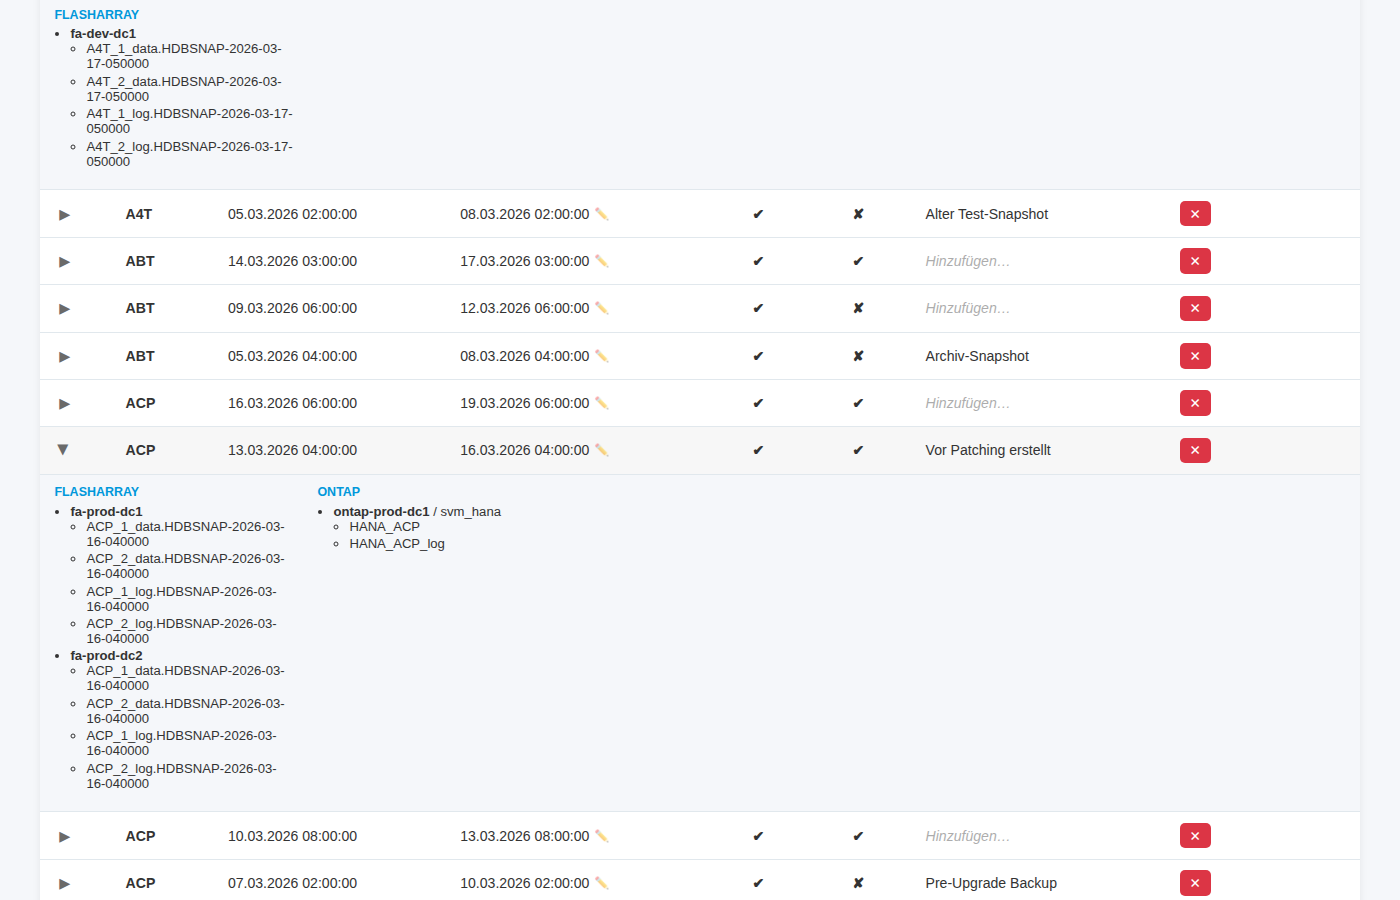
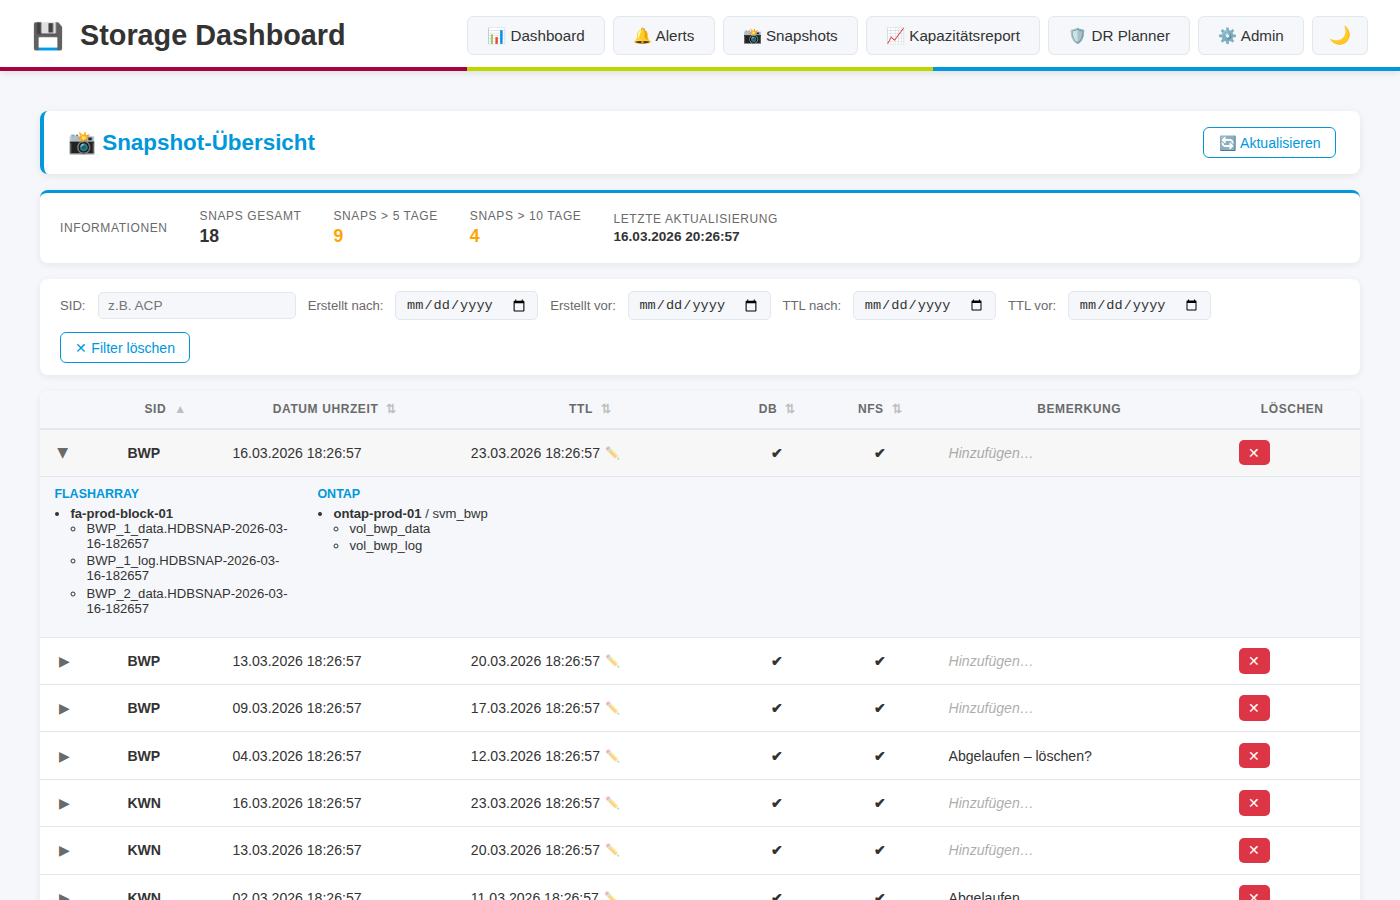
feat: add snapshot demo data seeding with neutral invented SIDs and regenerate screenshots

diff --git a/examples/seed_demo_data.py b/examples/seed_demo_data.py
@@ -14,6 +14,7 @@ Set DEMO_RESET=1 to wipe all existing systems/snapshots first:
 """
 import os
 import sys
+import json
 import random
 from datetime import date, datetime, timedelta
 
@@ -23,7 +24,7 @@ sys.path.insert(0, os.path.dirname(os.path.dirname(os.path.abspath(__file__))))
 os.environ.setdefault('SECRET_KEY', 'demo-seed-secret-key')
 
 from app import create_app, db
-from app.models import StorageSystem, TagGroup, Tag, CapacitySnapshot, CapacityHistory, SodHistory
+from app.models import StorageSystem, TagGroup, Tag, CapacitySnapshot, CapacityHistory, SodHistory, SnapshotRecord, SnapshotCollectorMetadata
 
 # ---------------------------------------------------------------------------
 # Demo system definitions
@@ -234,6 +235,8 @@ def seed(reset=False):
             CapacityHistory.query.delete()
             CapacitySnapshot.query.delete()
             StorageSystem.query.delete()
+            SnapshotRecord.query.delete()
+            SnapshotCollectorMetadata.query.delete()
             db.session.commit()
 
         # Fetch tag lookup: {group_name: {tag_name: Tag}}
@@ -343,7 +346,12 @@ def seed(reset=False):
         _seed_sod_history(app, today, start_date, history_days)
         print(f'  SoD history rows: {SodHistory.query.count()}')
         print()
+
+        # ── Seed snapshot demo records ─────────────────────────────────────
+        _seed_snapshot_records(app)
+        print()
         print('Open http://localhost:5000/capacity/ to view the Kapazitätsreport.')
+        print('Open http://localhost:5000/snaps/ to view the Snapshot-Verwaltung.')
 
 
 # ---------------------------------------------------------------------------
@@ -401,6 +409,105 @@ def _seed_sod_history(app, today, start_date, history_days):
                         on_demand_tb=on_demand,
                     ))
         db.session.commit()
+
+
+# ---------------------------------------------------------------------------
+# Demo snapshot definitions
+# Each entry: (sid, fa_array, ontap_cluster, svm, days_ago, ttl_days_from_creation,
+#               comment, fa_only)
+#
+# ttl_days_from_creation: TTL = creation_time + timedelta(days=ttl_days_from_creation)
+# SIDs are neutral, invented 3-character identifiers – no real customer data.
+# ---------------------------------------------------------------------------
+
+_DEMO_SNAPSHOTS = [
+    # SID, FA array,            ONTAP cluster,       SVM,          days_ago, ttl_from_creation, comment,                     fa_only
+    ('NXD', 'fa-prod-block-01', 'ontap-prod-01',     'svm_nxd',    1,        7,                 '',                          False),
+    ('NXD', 'fa-prod-block-01', 'ontap-prod-01',     'svm_nxd',    4,        7,                 '',                          False),
+    ('NXD', 'fa-prod-block-01', 'ontap-prod-01',     'svm_nxd',    8,        6,                 'Veralteter Snapshot prüfen', False),
+    ('BWP', 'fa-prod-block-01', 'ontap-prod-01',     'svm_bwp',    0,        7,                 '',                          False),
+    ('BWP', 'fa-prod-block-01', 'ontap-prod-01',     'svm_bwp',    3,        7,                 '',                          False),
+    ('BWP', 'fa-prod-block-01', 'ontap-prod-01',     'svm_bwp',    7,        8,                 '',                          False),
+    ('BWP', 'fa-prod-block-01', 'ontap-prod-01',     'svm_bwp',   12,        8,                 'Abgelaufen – löschen?',     False),
+    ('MQT', 'fa-prod-block-02', 'ontap-prod-02',     'svm_mqt',    2,        7,                 '',                          False),
+    ('MQT', 'fa-prod-block-02', 'ontap-prod-02',     'svm_mqt',    6,        8,                 '',                          False),
+    ('MQT', 'fa-prod-block-02', 'ontap-prod-02',     'svm_mqt',   11,       10,                 '',                          False),
+    ('RVK', 'fa-test-block-01', 'ontap-test-01',     'svm_rvk',    1,        7,                 '',                          False),
+    ('RVK', 'fa-test-block-01', 'ontap-test-01',     'svm_rvk',    5,        7,                 'Test-Snapshot',             False),
+    ('RVK', 'fa-test-block-01', 'ontap-test-01',     'svm_rvk',   10,       10,                 '',                          False),
+    ('TZX', 'fa-test-block-01', '',                  '',           2,        7,                 '',                          True),
+    ('TZX', 'fa-test-block-01', '',                  '',           9,        6,                 'Nur FA – kein NFS',         True),
+    ('KWN', 'fa-prod-block-02', 'ontap-prod-02',     'svm_kwn',    0,        7,                 '',                          False),
+    ('KWN', 'fa-prod-block-02', 'ontap-prod-02',     'svm_kwn',    3,        7,                 '',                          False),
+    ('KWN', 'fa-prod-block-02', 'ontap-prod-02',     'svm_kwn',   14,        9,                 'Abgelaufen',                False),
+]
+
+
+def _seed_snapshot_records(app):
+    """Seed demo SnapshotRecord rows with invented SIDs.
+
+    Uses neutral, fictitious 3-character SIDs so no real customer data appears
+    in screenshots or demo environments.
+    """
+    with app.app_context():
+        print('Seeding snapshot demo records…')
+        now = datetime.utcnow()
+
+        for (sid, fa_array, ontap_cluster, svm, days_ago, ttl_from_creation,
+             comment, fa_only) in _DEMO_SNAPSHOTS:
+
+            creation_time = now - timedelta(days=days_ago, hours=2)
+            ttl = creation_time + timedelta(days=ttl_from_creation)
+
+            ts_str = creation_time.strftime('%Y-%m-%d-%H%M%S')
+            snap_names = [
+                f'{sid}_1_data.HDBSNAP-{ts_str}',
+                f'{sid}_1_log.HDBSNAP-{ts_str}',
+                f'{sid}_2_data.HDBSNAP-{ts_str}',
+            ]
+            locs = {
+                'flasharray_systems': [
+                    {'name': fa_array, 'snapshot_names': snap_names},
+                ],
+                'ontap_clusters': [],
+            }
+            if not fa_only and ontap_cluster:
+                locs['ontap_clusters'].append({
+                    'cluster': ontap_cluster,
+                    'svm': svm,
+                    'volumes': [f'vol_{sid.lower()}_data', f'vol_{sid.lower()}_log'],
+                })
+
+            existing = SnapshotRecord.query.filter_by(
+                sid=sid, creation_time=creation_time
+            ).first()
+            if existing:
+                continue
+
+            rec = SnapshotRecord(
+                sid=sid,
+                creation_time=creation_time,
+                ttl=ttl,
+                flasharray_present=True,
+                ontap_present=(not fa_only and bool(ontap_cluster)),
+                comment=comment,
+                storage_locations=json.dumps(locs),
+                last_seen=now,
+            )
+            db.session.add(rec)
+
+        # Record a successful collector run so the UI shows "last update"
+        meta = SnapshotCollectorMetadata(
+            run_at=now,
+            status='ok',
+            systems_queried=6,
+            snapshots_stored=len(_DEMO_SNAPSHOTS),
+        )
+        db.session.add(meta)
+        db.session.commit()
+
+        total = SnapshotRecord.query.count()
+        print(f'  Snapshot records: {total}')
 
 
 if __name__ == '__main__':

diff --git a/README.md b/README.md
@@ -138,7 +138,7 @@ Durch Klick auf den ▶-Button wird eine Zeile aufgeklappt und zeigt die konkret
 
 ![Snapshot-Detail mit FlashArray und ONTAP](screenshots/snaps-detail.png)
 
-*Detail-Ansicht: FlashArray-Snapshots auf zwei Arrays (fa-prod-dc1, fa-prod-dc2) mit LUN-Namen und ONTAP-Volumes (HANA_ACP, HANA_ACP_log) auf ontap-prod-dc1 / svm_hana*
+*Detail-Ansicht: FlashArray-Snapshots (fa-prod-block-01) mit LUN-Namen und ONTAP-Volumes (vol_bwp_data, vol_bwp_log) auf ontap-prod-01 / svm_bwp*
 
 ### Funktionen im Überblick
 
